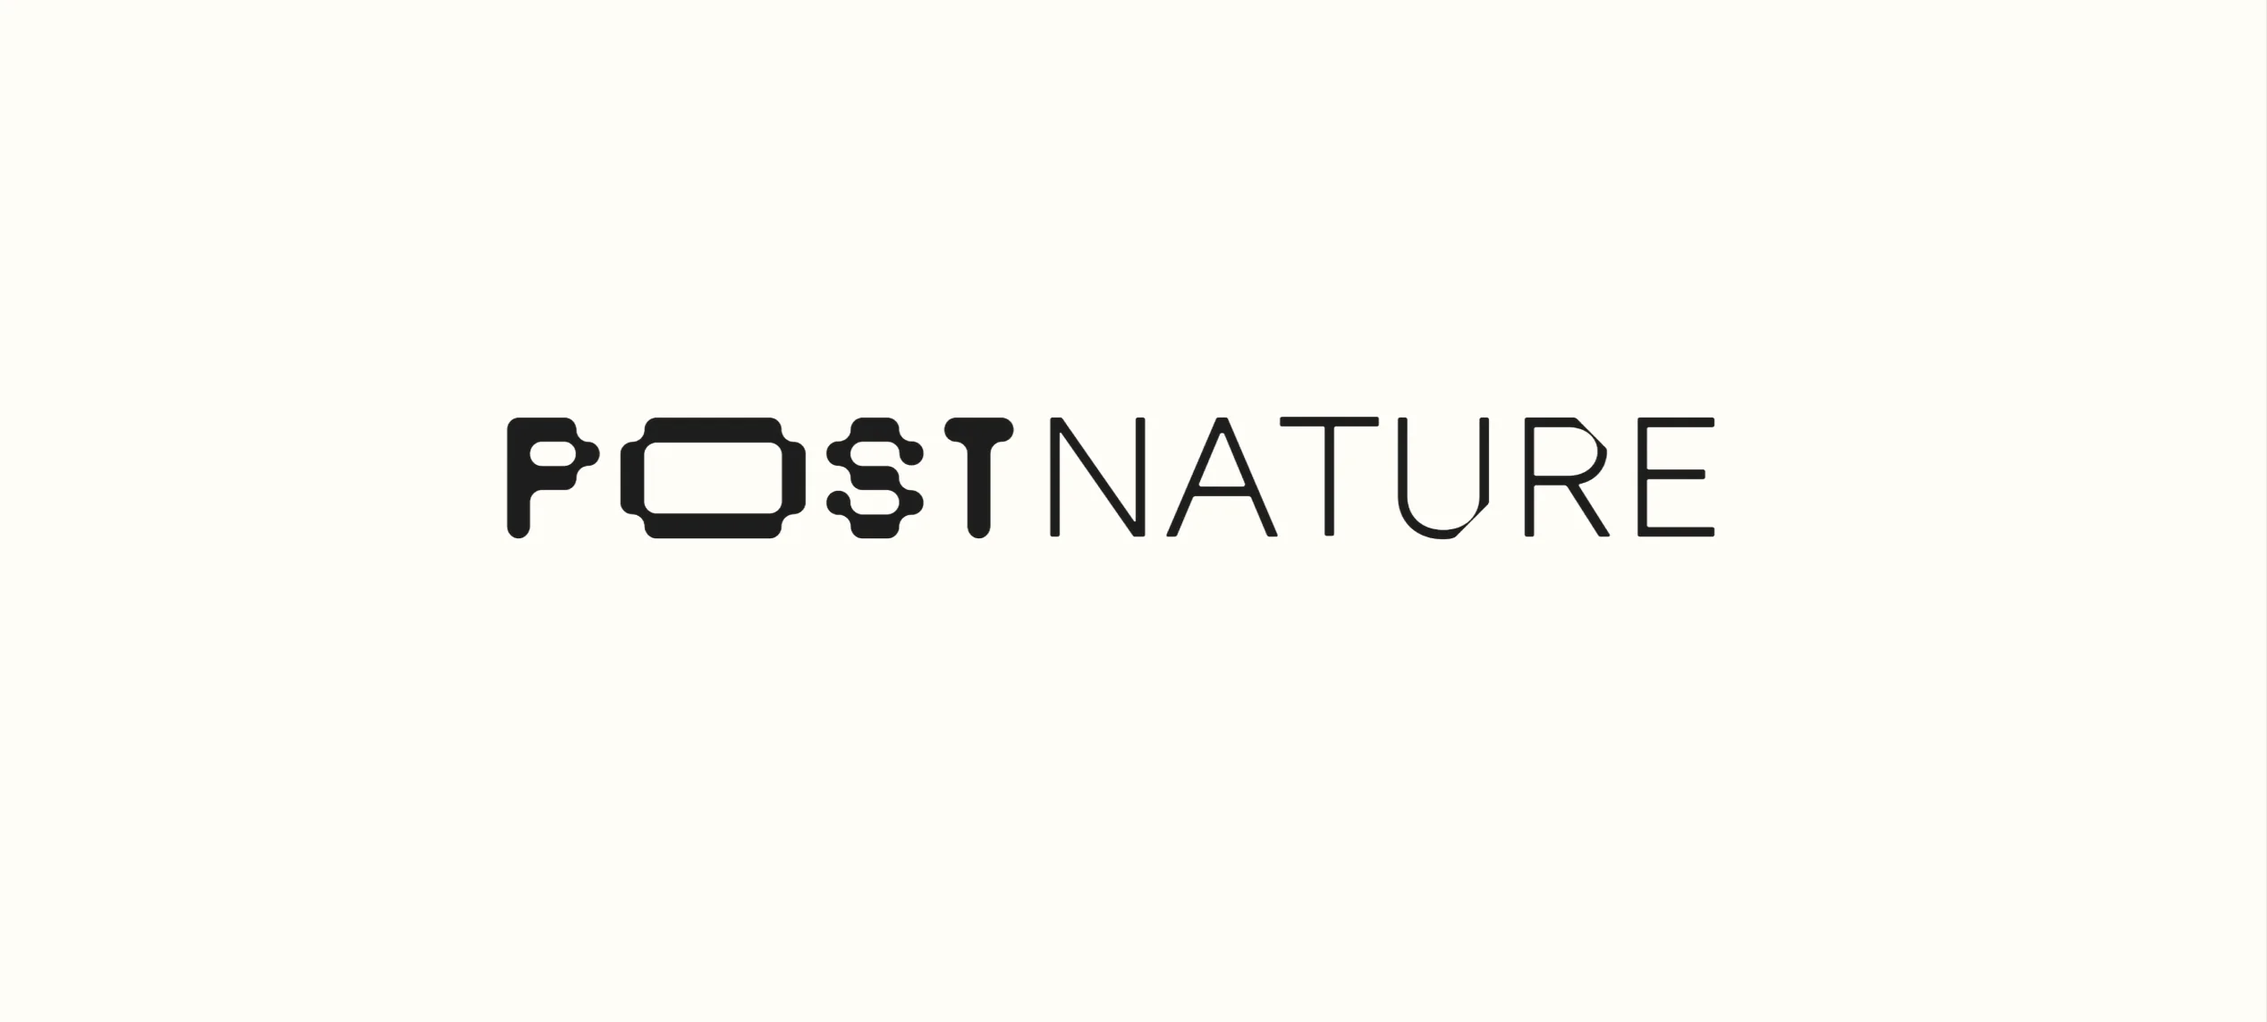
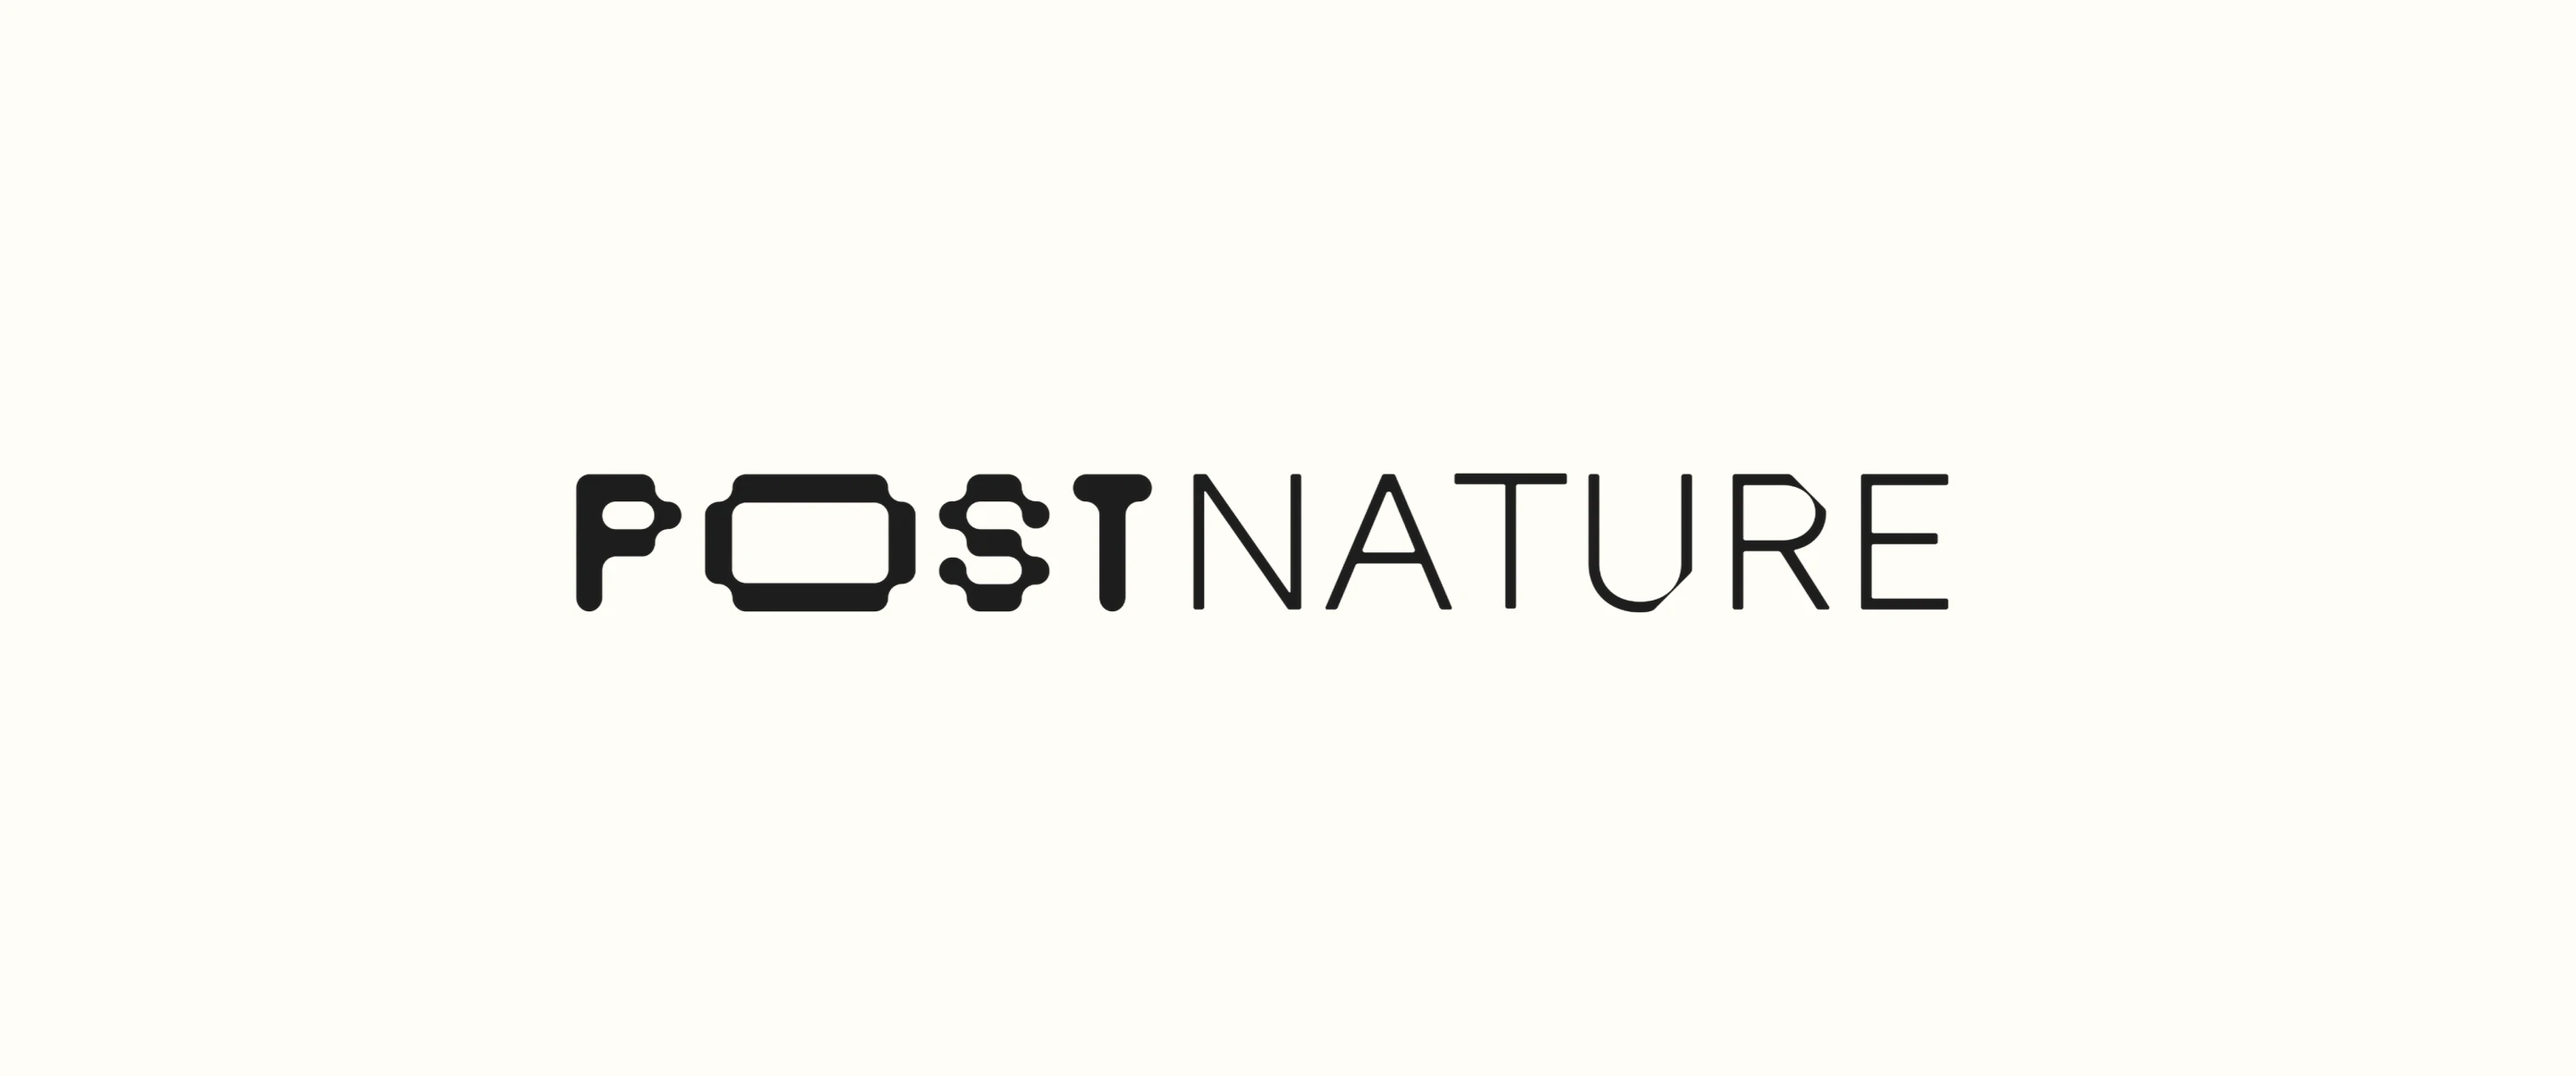
Post Nature: new opening (logotype on cream, info peeks above the fold), tag order from Figma
Claude-Session: https://claude.ai/code/session_01AmrZWkQw9hupbrEkueNUEt

Changed region(s): [[0.2181, 0.3981, 0.7791, 0.5818]]

diff --git a/work/post-nature/index.html b/work/post-nature/index.html
@@ -37,12 +37,12 @@
 <div class="page">
 <main class="case case--pn">
 <section class="case-hero">
-  <img class="tile" src="/assets/pn/hero.webp" width="1440" height="649" alt="Post Nature logotype" decoding="async">
-  <div class="case-info reveal"  style="padding-top:calc(95 * var(--u))">
+  <img class="tile" src="/assets/pn/hero.webp" width="1440" height="602" alt="Post Nature logotype" decoding="async">
+  <div class="case-info reveal"  style="padding-top:calc(47 * var(--u));padding-bottom:calc(99 * var(--u))">
     <div class="case-info__title">
       <p class="case-info__num">03</p>
       <h1 class="case-info__name">Post Nature</h1>
-      <div class="case-info__tags"><span class="tag">Art Direction</span><span class="tag">Visual Identity</span><span class="tag">Research</span><span class="tag">AI Design</span><span class="tag">Concept</span><span class="tag">Exhibition</span><span class="tag">UX/UI</span></div>
+      <div class="case-info__tags"><span class="tag">Art Direction</span><span class="tag">UX/UI</span><span class="tag">Research</span><span class="tag">AI Design</span><span class="tag">Concept</span><span class="tag">Visual Identity</span><span class="tag">Exhibition</span></div>
     </div>
     <div class="case-info__body">
       <p class="case-label">Info</p>

diff --git a/index.html b/index.html
@@ -79,7 +79,7 @@
           <h3 class="card__title"><img src="/assets/svg/title-postnature.svg" height="19.3" alt="Post Nature"></h3>
           <span class="card__year">2025</span>
           <p class="card__sub">Interactive Exhibition</p>
-          <div class="tags"><span class="tags__row"><span class="tag">Art Direction</span><span class="tag">Visual Identity</span><span class="tag">Research</span></span><span class="tags__row"><span class="tag">AI Design</span><span class="tag">Concept</span><span class="tag">Exhibition</span><span class="tag">UX/UI</span></span></div>
+          <div class="tags"><span class="tags__row"><span class="tag">Art Direction</span><span class="tag">UX/UI</span><span class="tag">Research</span></span><span class="tags__row"><span class="tag">AI Design</span><span class="tag">Concept</span><span class="tag">Visual Identity</span><span class="tag">Exhibition</span></span></div>
         </div>
       </a>
     </div>
